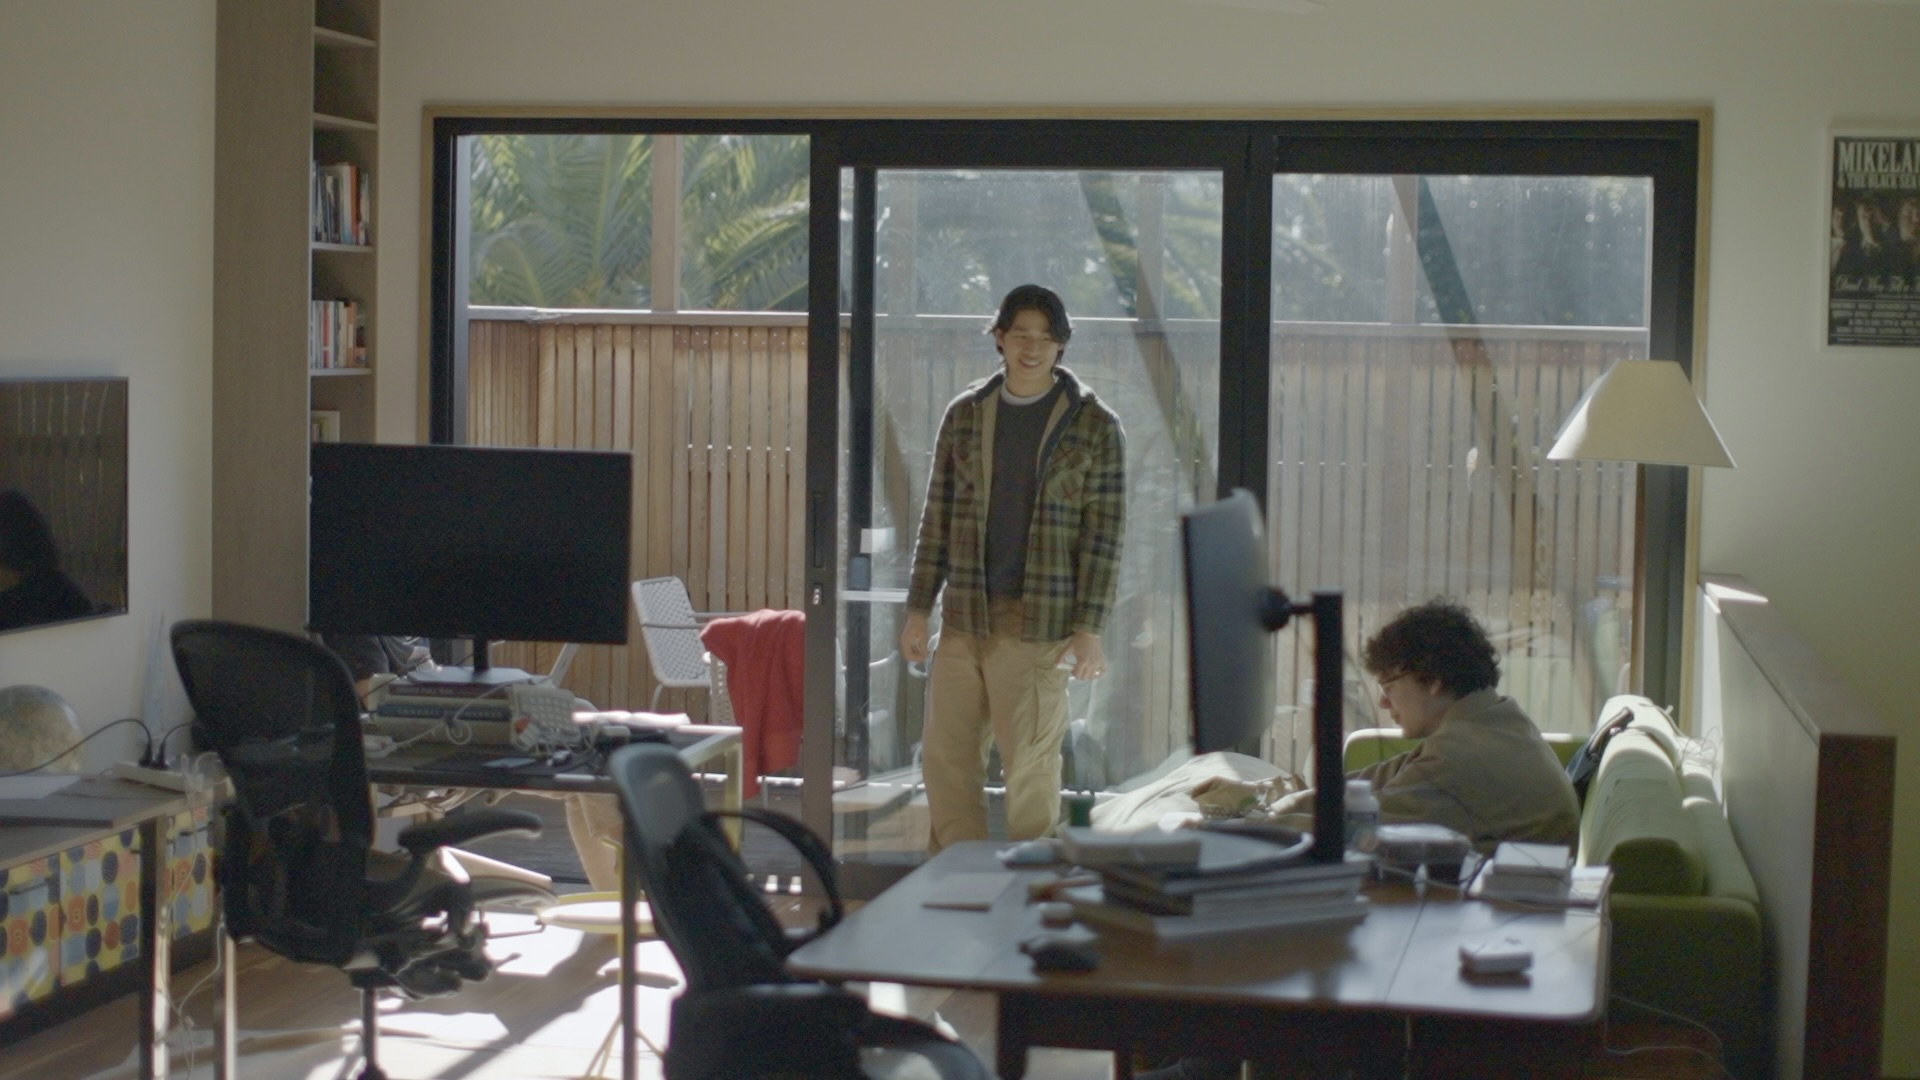
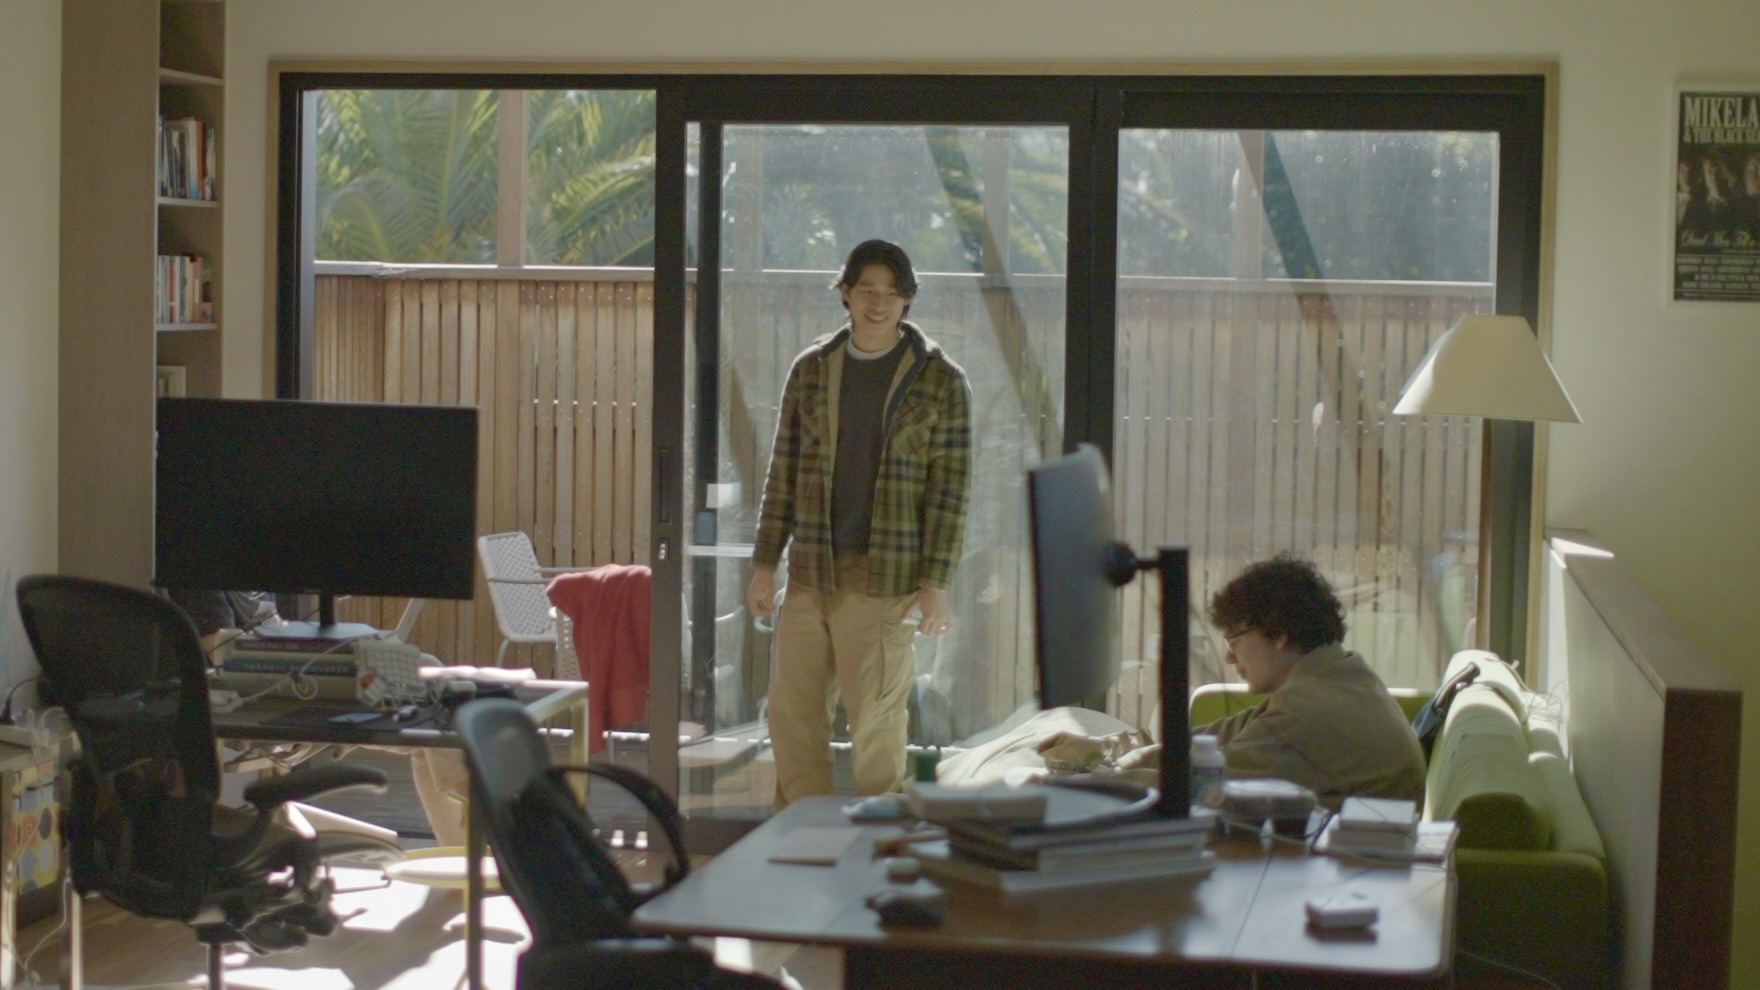
YYYY-10-Oct 10, 2025 22:21:32

diff --git a/page/3/index.html b/page/3/index.html
@@ -170,15 +170,15 @@
         <div class="icons">
             <div class="icon" data-metric="likes" data-scale="7">
                 <img src="/images/twitter/heart.svg" alt="heart">
-                <p class="metric-value">12</p>
+                <p class="metric-value">32</p>
             </div>
             <div class="icon" data-metric="replies" data-scale="3">
                 <img src="/images/twitter/message.svg" alt="heart">
-                <p class="metric-value">5</p>
+                <p class="metric-value">3</p>
             </div>
             <div class="icon" data-metric="retweets" data-scale="2">
                 <img src="/images/twitter/retweet.svg" alt="heart">
-                <p class="metric-value">4</p>
+                <p class="metric-value">3</p>
             </div>
             <div class="icon" data-metric="shares" data-scale="1">
                 <img src="/images/twitter/upload.svg" alt="heart">
@@ -295,19 +295,19 @@
         <div class="icons">
             <div class="icon" data-metric="likes" data-scale="7">
                 <img src="/images/twitter/heart.svg" alt="heart">
-                <p class="metric-value">14</p>
+                <p class="metric-value">13</p>
             </div>
             <div class="icon" data-metric="replies" data-scale="3">
                 <img src="/images/twitter/message.svg" alt="heart">
-                <p class="metric-value">3</p>
+                <p class="metric-value">0</p>
             </div>
             <div class="icon" data-metric="retweets" data-scale="2">
                 <img src="/images/twitter/retweet.svg" alt="heart">
-                <p class="metric-value">3</p>
+                <p class="metric-value">4</p>
             </div>
             <div class="icon" data-metric="shares" data-scale="1">
                 <img src="/images/twitter/upload.svg" alt="heart">
-                <p class="metric-value">1</p>
+                <p class="metric-value">0</p>
             </div>
         </div>
     </div>
@@ -418,19 +418,19 @@
         <div class="icons">
             <div class="icon" data-metric="likes" data-scale="7">
                 <img src="/images/twitter/heart.svg" alt="heart">
-                <p class="metric-value">7</p>
+                <p class="metric-value">35</p>
             </div>
             <div class="icon" data-metric="replies" data-scale="3">
                 <img src="/images/twitter/message.svg" alt="heart">
-                <p class="metric-value">7</p>
+                <p class="metric-value">3</p>
             </div>
             <div class="icon" data-metric="retweets" data-scale="2">
                 <img src="/images/twitter/retweet.svg" alt="heart">
-                <p class="metric-value">3</p>
+                <p class="metric-value">2</p>
             </div>
             <div class="icon" data-metric="shares" data-scale="1">
                 <img src="/images/twitter/upload.svg" alt="heart">
-                <p class="metric-value">1</p>
+                <p class="metric-value">0</p>
             </div>
         </div>
     </div>
@@ -541,15 +541,15 @@
         <div class="icons">
             <div class="icon" data-metric="likes" data-scale="7">
                 <img src="/images/twitter/heart.svg" alt="heart">
-                <p class="metric-value">42</p>
+                <p class="metric-value">15</p>
             </div>
             <div class="icon" data-metric="replies" data-scale="3">
                 <img src="/images/twitter/message.svg" alt="heart">
-                <p class="metric-value">8</p>
+                <p class="metric-value">6</p>
             </div>
             <div class="icon" data-metric="retweets" data-scale="2">
                 <img src="/images/twitter/retweet.svg" alt="heart">
-                <p class="metric-value">4</p>
+                <p class="metric-value">0</p>
             </div>
             <div class="icon" data-metric="shares" data-scale="1">
                 <img src="/images/twitter/upload.svg" alt="heart">

diff --git a/index.html b/index.html
@@ -170,15 +170,15 @@
         <div class="icons">
             <div class="icon" data-metric="likes" data-scale="7">
                 <img src="/images/twitter/heart.svg" alt="heart">
-                <p class="metric-value">28</p>
+                <p class="metric-value">4</p>
             </div>
             <div class="icon" data-metric="replies" data-scale="3">
                 <img src="/images/twitter/message.svg" alt="heart">
-                <p class="metric-value">6</p>
+                <p class="metric-value">7</p>
             </div>
             <div class="icon" data-metric="retweets" data-scale="2">
                 <img src="/images/twitter/retweet.svg" alt="heart">
-                <p class="metric-value">1</p>
+                <p class="metric-value">3</p>
             </div>
             <div class="icon" data-metric="shares" data-scale="1">
                 <img src="/images/twitter/upload.svg" alt="heart">
@@ -295,11 +295,11 @@
         <div class="icons">
             <div class="icon" data-metric="likes" data-scale="7">
                 <img src="/images/twitter/heart.svg" alt="heart">
-                <p class="metric-value">38</p>
+                <p class="metric-value">21</p>
             </div>
             <div class="icon" data-metric="replies" data-scale="3">
                 <img src="/images/twitter/message.svg" alt="heart">
-                <p class="metric-value">9</p>
+                <p class="metric-value">7</p>
             </div>
             <div class="icon" data-metric="retweets" data-scale="2">
                 <img src="/images/twitter/retweet.svg" alt="heart">
@@ -307,7 +307,7 @@
             </div>
             <div class="icon" data-metric="shares" data-scale="1">
                 <img src="/images/twitter/upload.svg" alt="heart">
-                <p class="metric-value">1</p>
+                <p class="metric-value">0</p>
             </div>
         </div>
     </div>
@@ -418,11 +418,11 @@
         <div class="icons">
             <div class="icon" data-metric="likes" data-scale="7">
                 <img src="/images/twitter/heart.svg" alt="heart">
-                <p class="metric-value">18</p>
+                <p class="metric-value">44</p>
             </div>
             <div class="icon" data-metric="replies" data-scale="3">
                 <img src="/images/twitter/message.svg" alt="heart">
-                <p class="metric-value">8</p>
+                <p class="metric-value">4</p>
             </div>
             <div class="icon" data-metric="retweets" data-scale="2">
                 <img src="/images/twitter/retweet.svg" alt="heart">
@@ -541,19 +541,19 @@
         <div class="icons">
             <div class="icon" data-metric="likes" data-scale="7">
                 <img src="/images/twitter/heart.svg" alt="heart">
-                <p class="metric-value">21</p>
+                <p class="metric-value">43</p>
             </div>
             <div class="icon" data-metric="replies" data-scale="3">
                 <img src="/images/twitter/message.svg" alt="heart">
-                <p class="metric-value">5</p>
+                <p class="metric-value">9</p>
             </div>
             <div class="icon" data-metric="retweets" data-scale="2">
                 <img src="/images/twitter/retweet.svg" alt="heart">
-                <p class="metric-value">3</p>
+                <p class="metric-value">2</p>
             </div>
             <div class="icon" data-metric="shares" data-scale="1">
                 <img src="/images/twitter/upload.svg" alt="heart">
-                <p class="metric-value">1</p>
+                <p class="metric-value">0</p>
             </div>
         </div>
     </div>

diff --git a/page/2/index.html b/page/2/index.html
@@ -170,11 +170,11 @@
         <div class="icons">
             <div class="icon" data-metric="likes" data-scale="7">
                 <img src="/images/twitter/heart.svg" alt="heart">
-                <p class="metric-value">34</p>
+                <p class="metric-value">24</p>
             </div>
             <div class="icon" data-metric="replies" data-scale="3">
                 <img src="/images/twitter/message.svg" alt="heart">
-                <p class="metric-value">6</p>
+                <p class="metric-value">5</p>
             </div>
             <div class="icon" data-metric="retweets" data-scale="2">
                 <img src="/images/twitter/retweet.svg" alt="heart">
@@ -295,19 +295,19 @@
         <div class="icons">
             <div class="icon" data-metric="likes" data-scale="7">
                 <img src="/images/twitter/heart.svg" alt="heart">
-                <p class="metric-value">26</p>
+                <p class="metric-value">10</p>
             </div>
             <div class="icon" data-metric="replies" data-scale="3">
                 <img src="/images/twitter/message.svg" alt="heart">
-                <p class="metric-value">5</p>
+                <p class="metric-value">6</p>
             </div>
             <div class="icon" data-metric="retweets" data-scale="2">
                 <img src="/images/twitter/retweet.svg" alt="heart">
-                <p class="metric-value">2</p>
+                <p class="metric-value">3</p>
             </div>
             <div class="icon" data-metric="shares" data-scale="1">
                 <img src="/images/twitter/upload.svg" alt="heart">
-                <p class="metric-value">1</p>
+                <p class="metric-value">0</p>
             </div>
         </div>
     </div>
@@ -418,15 +418,15 @@
         <div class="icons">
             <div class="icon" data-metric="likes" data-scale="7">
                 <img src="/images/twitter/heart.svg" alt="heart">
-                <p class="metric-value">37</p>
+                <p class="metric-value">9</p>
             </div>
             <div class="icon" data-metric="replies" data-scale="3">
                 <img src="/images/twitter/message.svg" alt="heart">
-                <p class="metric-value">3</p>
+                <p class="metric-value">0</p>
             </div>
             <div class="icon" data-metric="retweets" data-scale="2">
                 <img src="/images/twitter/retweet.svg" alt="heart">
-                <p class="metric-value">4</p>
+                <p class="metric-value">0</p>
             </div>
             <div class="icon" data-metric="shares" data-scale="1">
                 <img src="/images/twitter/upload.svg" alt="heart">
@@ -541,15 +541,15 @@
         <div class="icons">
             <div class="icon" data-metric="likes" data-scale="7">
                 <img src="/images/twitter/heart.svg" alt="heart">
-                <p class="metric-value">35</p>
+                <p class="metric-value">25</p>
             </div>
             <div class="icon" data-metric="replies" data-scale="3">
                 <img src="/images/twitter/message.svg" alt="heart">
-                <p class="metric-value">4</p>
+                <p class="metric-value">3</p>
             </div>
             <div class="icon" data-metric="retweets" data-scale="2">
                 <img src="/images/twitter/retweet.svg" alt="heart">
-                <p class="metric-value">1</p>
+                <p class="metric-value">3</p>
             </div>
             <div class="icon" data-metric="shares" data-scale="1">
                 <img src="/images/twitter/upload.svg" alt="heart">

diff --git a/opinion/index.html b/opinion/index.html
@@ -209,7 +209,7 @@
 <div class="post-item item-with-border">
     <div class="post-thumbnail">
         <a href="/2024/10/17/tasteful-apis/" class="post-link">
-            <img src="/images/thumbnails/arab.png" alt="what are TASTEful apis">
+            <img src="/images/thumbnails/red-houses.png" alt="what are TASTEful apis">
         </a>
     </div>
     <div class="post-content">
@@ -249,7 +249,7 @@
 <div class="post-item item-with-border">
     <div class="post-thumbnail">
         <a target="_blank" rel="noopener" href="https://www.melbournemicrofinance.com/new-blog/2023/11/29/justin-lee" class="post-link">
-            <img src="/images/thumbnails/arab.png" alt="ideas vs agency">
+            <img src="/images/thumbnails/girl.png" alt="ideas vs agency">
         </a>
     </div>
     <div class="post-content">

diff --git a/engineering/index.html b/engineering/index.html
@@ -160,7 +160,7 @@
 <div class="post-item item-with-border">
     <div class="post-thumbnail">
         <a href="/2024/06/15/poll-anything/" class="post-link">
-            <img src="/images/thumbnails/flowers.png" alt="Poll Anything">
+            <img src="/images/thumbnails/arab.png" alt="Poll Anything">
         </a>
     </div>
     <div class="post-content">
@@ -200,7 +200,7 @@
 <div class="post-item item-with-border">
     <div class="post-thumbnail">
         <a href="/2023/12/18/ml-ai-hack-23/" class="post-link">
-            <img src="/images/thumbnails/red-houses.png" alt="MLAI Hack '23 writeup">
+            <img src="/images/thumbnails/girl.png" alt="MLAI Hack '23 writeup">
         </a>
     </div>
     <div class="post-content">

diff --git a/2020/06/24/reads/index.html b/2020/06/24/reads/index.html
@@ -190,11 +190,11 @@
     
 <div class="article-gallery">
     
-    <a class="gallery-item" href="/images/project-mocks/reads/1.png" rel="gallery_cmgkr7ivv0019wscba4u43fkz">
+    <a class="gallery-item" href="/images/project-mocks/reads/1.png" rel="gallery_cmgkraio800164lcbg5098gkr">
         <img src="/images/project-mocks/reads/1.png" itemprop="image" />
     </a>
     
-    <a class="gallery-item" href="/images/project-mocks/reads/2.png" rel="gallery_cmgkr7ivv0019wscba4u43fkz">
+    <a class="gallery-item" href="/images/project-mocks/reads/2.png" rel="gallery_cmgkraio800164lcbg5098gkr">
         <img src="/images/project-mocks/reads/2.png" itemprop="image" />
     </a>
     

diff --git a/product/index.html b/product/index.html
@@ -119,7 +119,7 @@
 <div class="post-item item-with-border">
     <div class="post-thumbnail">
         <a href="/2024/06/15/poll-anything/" class="post-link">
-            <img src="/images/thumbnails/house.png" alt="Poll Anything">
+            <img src="/images/thumbnails/couple.png" alt="Poll Anything">
         </a>
     </div>
     <div class="post-content">

diff --git a/2023/02/17/unimelb-wam-calculator/index.html b/2023/02/17/unimelb-wam-calculator/index.html
@@ -205,7 +205,7 @@
     
 <div class="article-gallery">
     
-    <a class="gallery-item" href="/" rel="gallery_cmgkr7ivx001vwscba77j6z23">
+    <a class="gallery-item" href="/" rel="gallery_cmgkraiob001u4lcbhz4p81j8">
         <img src="/" itemprop="image" />
     </a>
     

diff --git a/search/index.html b/search/index.html
@@ -70,7 +70,7 @@
         <script src='https://cdnjs.cloudflare.com/ajax/libs/mathjax/2.7.5/latest.js?config=TeX-MML-AM_CHTML'
                 async></script>
     
-</head>
+<meta name="generator" content="Hexo 7.3.0"></head>
 
 
     <body

diff --git a/writing/index.html b/writing/index.html
@@ -70,7 +70,7 @@
         <script src='https://cdnjs.cloudflare.com/ajax/libs/mathjax/2.7.5/latest.js?config=TeX-MML-AM_CHTML'
                 async></script>
     
-</head>
+<meta name="generator" content="Hexo 7.3.0"></head>
 
 
     <body
